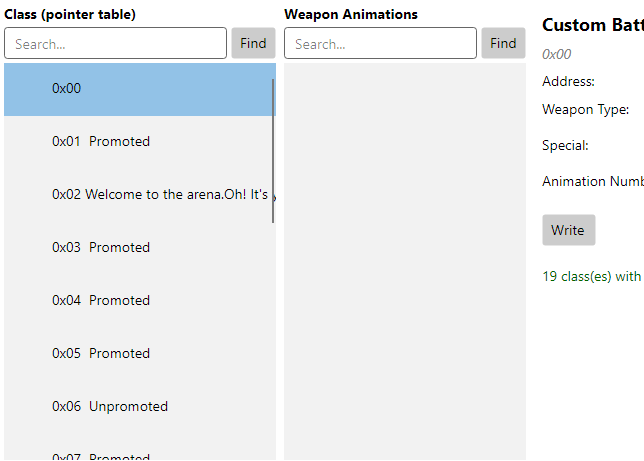
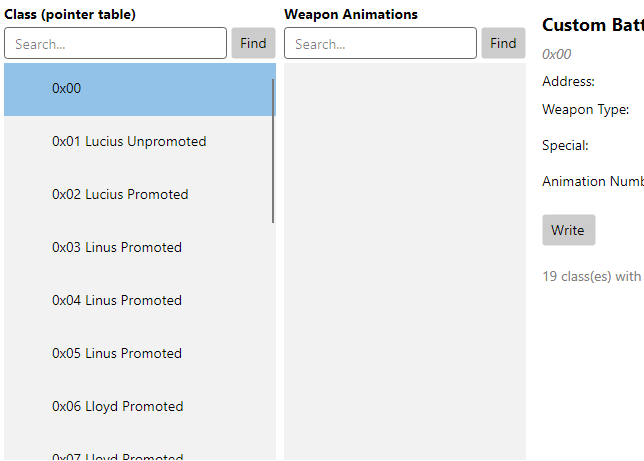
fix(avalonia): address Copilot PR #1470 review (label deref bug + Log.Error format + status colour)
Blocking + inline review findings:
- NameResolver.GetCustomBattleAnimeName: unit_pointer is a POINTER FIELD — dereference it via
  DerefPointer (p32) to the table base and iterate the fixed unit_maxcount, NOT scan unit_pointer
  directly with an id-0 terminator. The old code read the pointer-slot region and produced garbage
  labels (the screenshot showed a dialogue string in the class list). Now shows real unit names +
  lower/upper-class markers (verified: Lucius Unpromoted/Promoted, Linus, Lloyd).
- View Log.Error("...: {0}", ex.Message): Log.Error takes params string[] and joins with spaces —
  it does NOT do composite "{0}" formatting. Switched all four call sites to string concatenation
  with ex.ToString() (full stack trace).
- StatusLabel was hard-coded DarkGreen so failures rendered as success. Added SetStatus(text,
  success, error) helper: neutral Gray default, DarkGreen success, IndianRed error; default
  Foreground in AXAML changed to Gray.

Tests:
- NameResolverTests.GetCustomBattleAnimeName_FE7_DerefsUnitPointer_ReturnsLowerUpperLabel — seeds a
  synthetic FE7 unit table behind a pointer field + garbage in the slot region, asserts the lower
  (+37) / upper (+38) custom-battle labels resolve to the unit text + marker and a non-owner id is "".
- NameResolverTests.GetCustomBattleAnimeName_NonFE7_ReturnsEmpty — FE8/null short-circuit.

Re-captured the FE7U screenshot showing the corrected labels.

diff --git a/FEBuilderGBA.Core.Tests/NameResolverTests.cs b/FEBuilderGBA.Core.Tests/NameResolverTests.cs
@@ -6,6 +6,80 @@ namespace FEBuilderGBA.Core.Tests
     [Collection("SharedState")]
     public class NameResolverTests
     {
+        // ============================================================
+        // GetCustomBattleAnimeName — #1412 FE7 custom-battle-anime label
+        // ============================================================
+
+        static void W32(byte[] d, uint o, uint v)
+        {
+            d[o + 0] = (byte)(v & 0xFF); d[o + 1] = (byte)((v >> 8) & 0xFF);
+            d[o + 2] = (byte)((v >> 16) & 0xFF); d[o + 3] = (byte)((v >> 24) & 0xFF);
+        }
+        static void W16(byte[] d, uint o, ushort v) { d[o + 0] = (byte)(v & 0xFF); d[o + 1] = (byte)((v >> 8) & 0xFF); }
+
+        [Fact]
+        public void GetCustomBattleAnimeName_FE7_DerefsUnitPointer_ReturnsLowerUpperLabel()
+        {
+            var saved = CoreState.ROM;
+            try
+            {
+                var rom = new ROM();
+                rom.LoadLow("synth.gba", new byte[0x1000000], "AE7J01");
+                CoreState.ROM = rom;
+                NameResolver.ClearCache();
+                var d = rom.Data;
+                var info = rom.RomInfo;
+
+                // unit_pointer is a POINTER FIELD — plant a pointer to a unit table base, and put
+                // GARBAGE at the pointer slot region so the OLD (no-deref) code would read nonsense.
+                const uint unitBase = 0x300000;
+                W32(d, info.unit_pointer, 0x08000000u | unitBase);
+
+                uint ds = info.unit_datasize; // 52 for FE7
+                // Unit 0: text id 1, lower-class custom-anime id (+37) = 0x05.
+                W16(d, unitBase + 0 * ds, 0x0001);
+                d[unitBase + 0 * ds + 37] = 0x05;
+                d[unitBase + 0 * ds + 38] = 0x00;
+                // Unit 1: text id 2, upper-class custom-anime id (+38) = 0x06.
+                W16(d, unitBase + 1 * ds, 0x0002);
+                d[unitBase + 1 * ds + 37] = 0x00;
+                d[unitBase + 1 * ds + 38] = 0x06;
+
+                // id 0x05 → unit 0's lower-class label (text 1 + 下級職 marker).
+                string lower = NameResolver.GetCustomBattleAnimeName(rom, 0x05);
+                Assert.Contains(R._("下級職"), lower);
+                Assert.Equal(NameResolver.GetTextById(1) + " " + R._("下級職"), lower);
+
+                // id 0x06 → unit 1's upper-class label (text 2 + 上級職 marker).
+                string upper = NameResolver.GetCustomBattleAnimeName(rom, 0x06);
+                Assert.Contains(R._("上級職"), upper);
+                Assert.Equal(NameResolver.GetTextById(2) + " " + R._("上級職"), upper);
+
+                // No owner → empty (not garbage from the pointer-slot region the old bug read).
+                Assert.Equal("", NameResolver.GetCustomBattleAnimeName(rom, 0x77));
+                // id 0 → empty.
+                Assert.Equal("", NameResolver.GetCustomBattleAnimeName(rom, 0));
+            }
+            finally { CoreState.ROM = saved; NameResolver.ClearCache(); }
+        }
+
+        [Fact]
+        public void GetCustomBattleAnimeName_NonFE7_ReturnsEmpty()
+        {
+            var saved = CoreState.ROM;
+            try
+            {
+                var rom = new ROM();
+                rom.LoadLow("fe8.gba", new byte[0x1000000], "BE8E01");
+                CoreState.ROM = rom;
+                NameResolver.ClearCache();
+                // version != 7 → empty, no throw (FE6/FE8 short-circuit).
+                Assert.Equal("", NameResolver.GetCustomBattleAnimeName(rom, 0x05));
+                Assert.Equal("", NameResolver.GetCustomBattleAnimeName(null, 0x05));
+            }
+            finally { CoreState.ROM = saved; NameResolver.ClearCache(); }
+        }
+
         [Fact]
         public void GetTextById_ZeroReturnsEmpty()
         {

diff --git a/FEBuilderGBA.Avalonia/Views/UnitCustomBattleAnimeView.axaml.cs b/FEBuilderGBA.Avalonia/Views/UnitCustomBattleAnimeView.axaml.cs
@@ -2,6 +2,7 @@ using System;
 using System.Collections.Generic;
 using global::Avalonia.Controls;
 using global::Avalonia.Interactivity;
+using global::Avalonia.Media;
 using FEBuilderGBA.Avalonia.Services;
 using FEBuilderGBA.Avalonia.ViewModels;
 
@@ -55,13 +56,23 @@ namespace FEBuilderGBA.Avalonia.Views
 
                 _classList = _vm.LoadPointerTable();
                 ClassList.SetItems(_classList);
-                StatusLabel.Text = $"{_classList.Count} class(es) with custom battle animations.";
+                SetStatus($"{_classList.Count} class(es) with custom battle animations.", success: false);
             }
             catch (Exception ex)
             {
-                Log.Error("UnitCustomBattleAnimeView.LoadClassList failed: {0}", ex.Message);
-                StatusLabel.Text = $"Failed to load: {ex.Message}";
+                Log.Error("UnitCustomBattleAnimeView.LoadClassList failed: " + ex.ToString());
+                SetStatus($"Failed to load: {ex.Message}", success: false, error: true);
             }
+        }
+
+        /// <summary>Set the status text with a colour appropriate to the message kind so a
+        /// failure never renders in the success colour (Copilot PR #1470 review).</summary>
+        void SetStatus(string text, bool success, bool error = false)
+        {
+            StatusLabel.Text = text;
+            StatusLabel.Foreground = error
+                ? Brushes.IndianRed
+                : (success ? Brushes.DarkGreen : Brushes.Gray);
         }
 
         void OnClassSelected(uint slotAddr)
@@ -94,7 +105,7 @@ namespace FEBuilderGBA.Avalonia.Views
             catch (Exception ex)
             {
                 _vm.IsLoading = false;
-                Log.Error("UnitCustomBattleAnimeView.OnClassSelected failed: {0}", ex.Message);
+                Log.Error("UnitCustomBattleAnimeView.OnClassSelected failed: " + ex.ToString());
             }
         }
 
@@ -125,7 +136,7 @@ namespace FEBuilderGBA.Avalonia.Views
             catch (Exception ex)
             {
                 _vm.IsLoading = false;
-                Log.Error("UnitCustomBattleAnimeView.OnEntrySelected failed: {0}", ex.Message);
+                Log.Error("UnitCustomBattleAnimeView.OnEntrySelected failed: " + ex.ToString());
             }
         }
 
@@ -141,7 +152,7 @@ namespace FEBuilderGBA.Avalonia.Views
         {
             if (!_vm.IsLoaded)
             {
-                StatusLabel.Text = "Select a weapon animation record first.";
+                SetStatus("Select a weapon animation record first.", success: false);
                 return;
             }
 
@@ -155,14 +166,14 @@ namespace FEBuilderGBA.Avalonia.Views
                 _vm.WriteEntry();
                 _undoService.Commit();
                 _vm.MarkClean();
-                StatusLabel.Text = "Custom battle animation data written.";
+                SetStatus("Custom battle animation data written.", success: true);
                 CoreState.Services?.ShowInfo("Custom battle animation data written.");
             }
             catch (Exception ex)
             {
                 _undoService.Rollback();
-                Log.Error("Write failed: {0}", ex.Message);
-                StatusLabel.Text = $"Write failed: {ex.Message}";
+                Log.Error("UnitCustomBattleAnimeView.Write failed: " + ex.ToString());
+                SetStatus($"Write failed: {ex.Message}", success: false, error: true);
             }
         }
 

diff --git a/FEBuilderGBA.Core/NameResolver.cs b/FEBuilderGBA.Core/NameResolver.cs
@@ -61,17 +61,21 @@ namespace FEBuilderGBA
             if (customBattleId == 0) return string.Empty;
             if (rom?.RomInfo == null || rom.RomInfo.version != 7) return string.Empty;
 
-            uint unitPtr = rom.RomInfo.unit_pointer;
+            // unit_pointer is a POINTER FIELD — dereference it to the table base (matches
+            // WinForms InputFormRef.Init: BaseAddress = p32(BasePointer)). Reading unit_pointer
+            // directly as the base reads unrelated ROM bytes.
+            uint baseAddr = DerefPointer(rom, rom.RomInfo.unit_pointer);
             uint dataSize = rom.RomInfo.unit_datasize;
-            if (unitPtr == 0 || dataSize == 0) return string.Empty;
-            if (!U.isSafetyOffset(unitPtr, rom)) return string.Empty;
+            uint maxCount = rom.RomInfo.unit_maxcount;
+            if (baseAddr == 0 || dataSize == 0) return string.Empty;
 
-            uint cursor = unitPtr;
-            for (int i = 0; i < 0x1000; i++, cursor += dataSize)
+            // Iterate the fixed FE7 unit count (unit_maxcount), NOT an id-0 terminator — the
+            // WinForms unit IFR enumerates a bounded DataCount, not a NUL-terminated run.
+            uint limit = maxCount > 0 ? maxCount : 0x100;
+            uint cursor = baseAddr;
+            for (uint i = 0; i < limit; i++, cursor += dataSize)
             {
                 if (cursor + dataSize > (uint)rom.Data.Length) break;
-                // WinForms iterates InputFormRef.DataCount; the id-0 unit ends the table.
-                if (rom.u16(cursor) == 0) break;
 
                 if (customBattleId == rom.u8(cursor + 37))
                     return GetTextById(rom.u16(cursor)) + " " + R._("下級職");